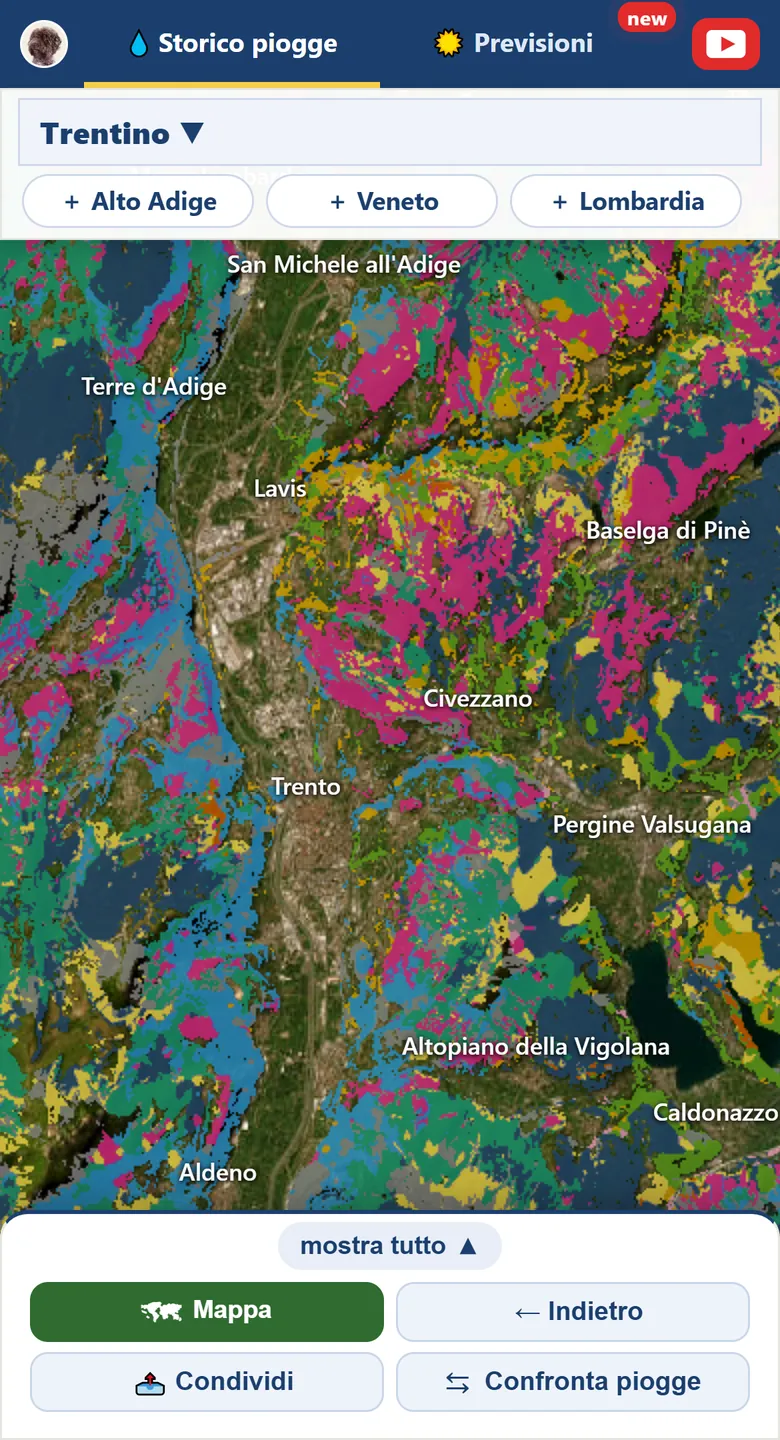
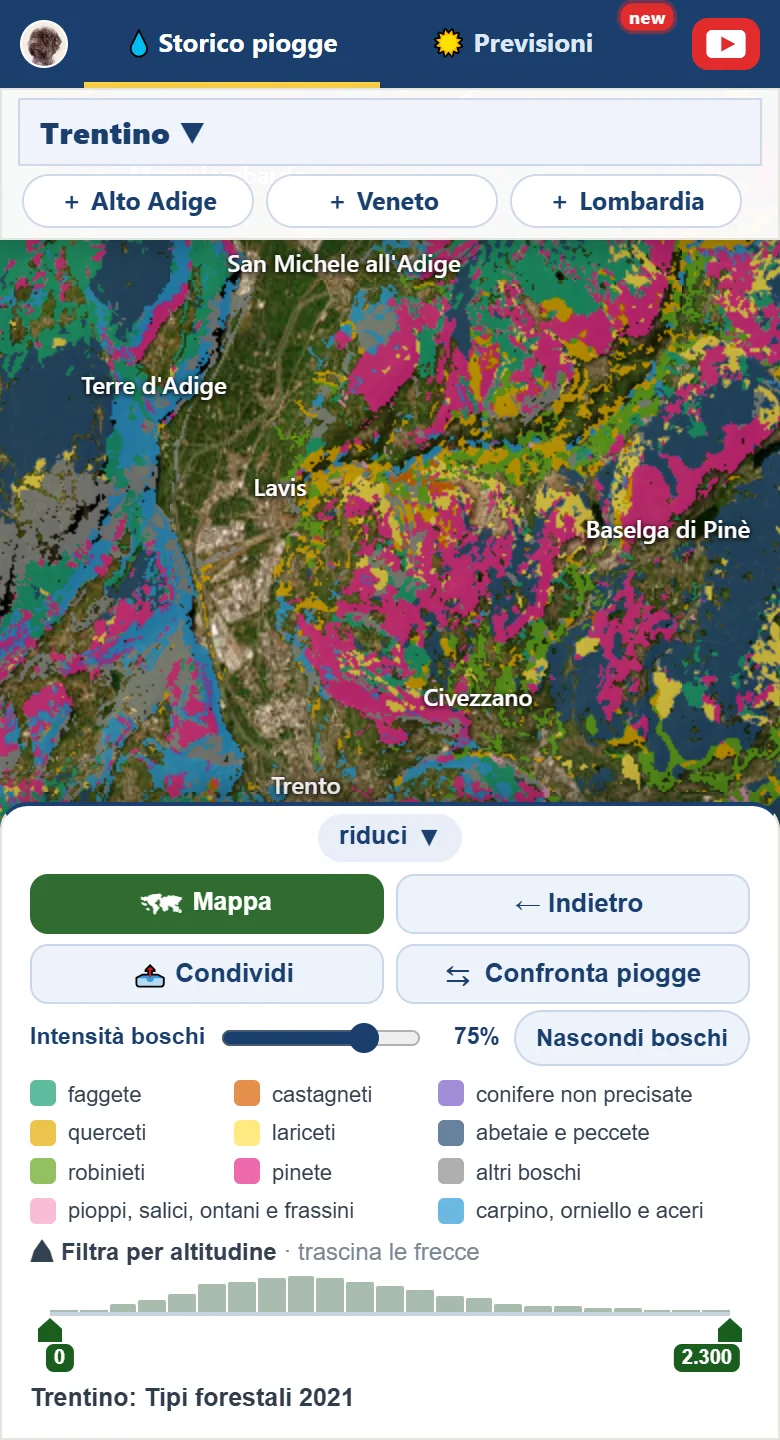
telefono: boschi con la legenda aperta (sua scelta)

diff --git a/studio-apple/home-v2/index.html b/studio-apple/home-v2/index.html
@@ -380,7 +380,8 @@ footer .copy { margin-top: 24px; padding-top: 16px; border-top: 1px solid var(--
          intensita' dei boschi al 75% col cursore; zoom 11 sul Trentino intorno a Trento: da lontano i boschi non si leggono) -->
     <picture>
       <!-- al telefono la mappa com'e' sul telefono (scatto 390x720 a 3x) -->
-      <source media="(max-width: 734px)" srcset="../film/foto/tel-boschi-780.webp 780w, ../film/foto/tel-boschi-1170.webp 1170w" sizes="calc(100vw - 24px)" width="1170" height="2160">
+      <!-- boschi al telefono con la LEGENDA aperta (sua scelta, 23/10): si legge quale colore e' quale bosco -->
+      <source media="(max-width: 734px)" srcset="../film/foto/tel-boschi-780.webp 780w" sizes="calc(100vw - 24px)" width="780" height="1440">
       <img src="../film/foto/boschi-vera-nord-1440.webp"
          srcset="../film/foto/boschi-vera-nord-1440.webp 1440w, ../film/foto/boschi-vera-nord-2880.webp 2880w"
          sizes="(max-width: 734px) calc(100vw - 24px), min(1136px, calc(100vw - 44px))" width="2880" height="1800" loading="lazy" style="object-position: 64% 50%"
